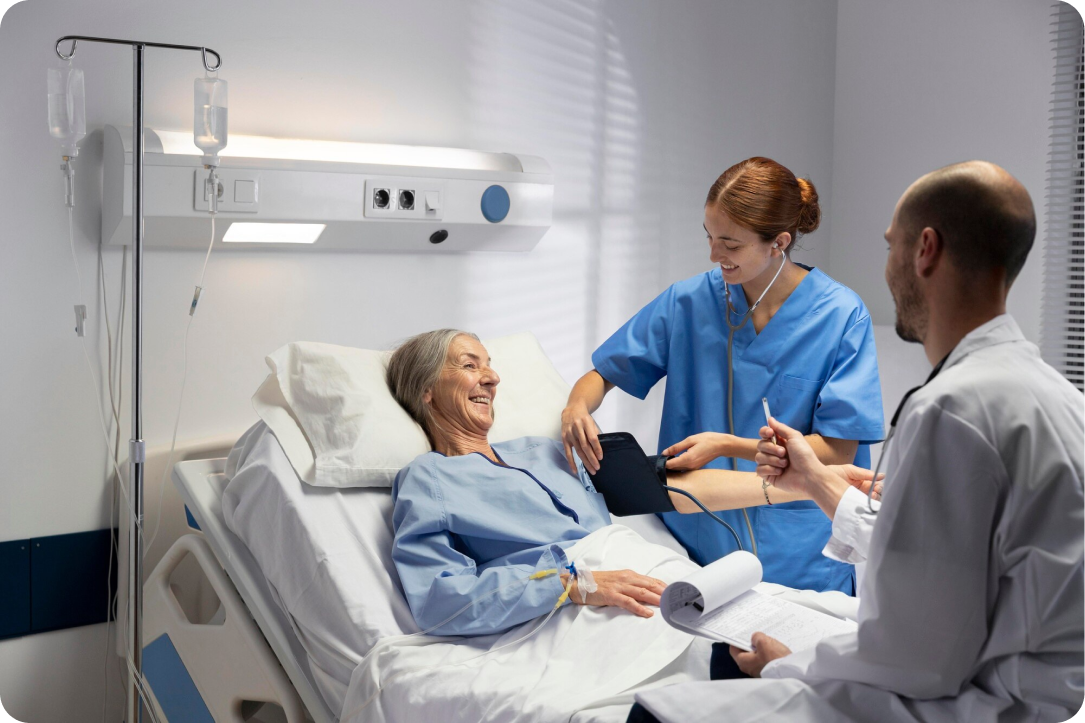
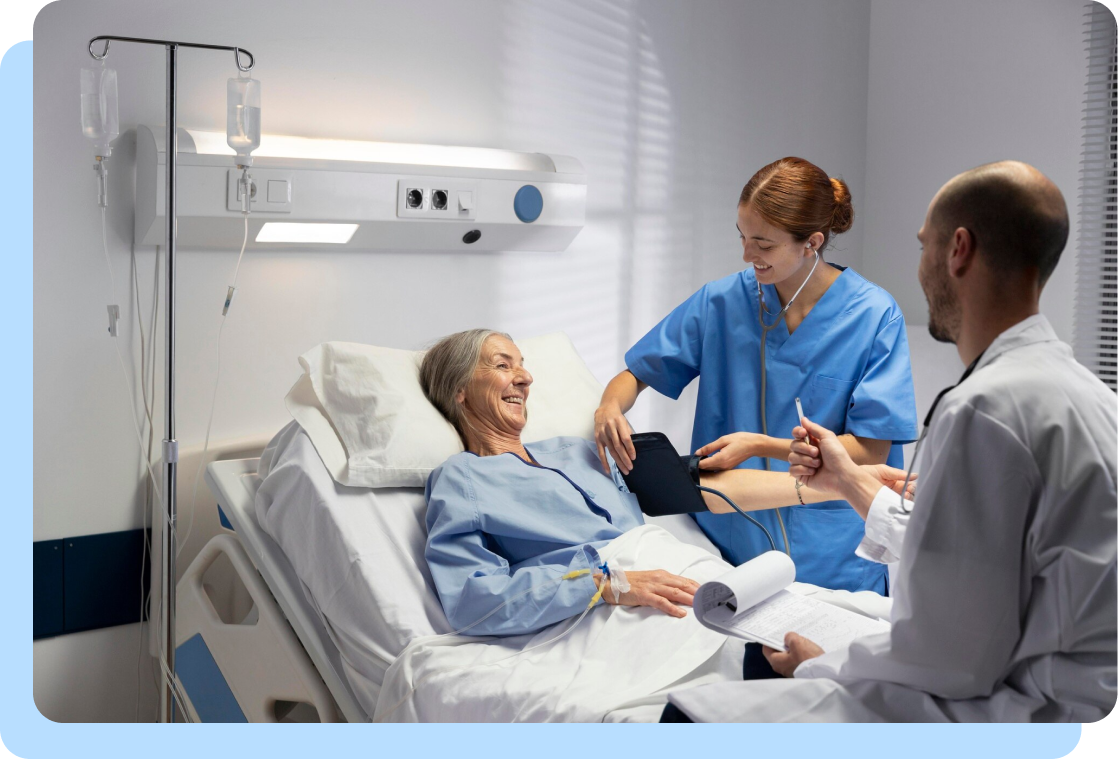
updated header section responsiveness and width chnages on patients section

diff --git a/components/Header/page.js b/components/Header/page.js
@@ -7,7 +7,6 @@ import { menu } from '../../utils/data'
 import { FaArrowCircleRight } from 'react-icons/fa'
 
 export default function Header() {
-  const [showContactButton, setShowContactButton] = useState(true)
   const [isOpen, setIsOpen] = useState(false)
   const [hoveredIndex, setHoveredIndex] = useState(null)
 
@@ -44,8 +43,8 @@ export default function Header() {
 
   return (
     <div className="z-50 absolute w-full mx-auto top-10">
-      <div className="bg-white w-11/12 mx-auto rounded-lg grid grid-cols-3 px-6">
-        <div className="h-20 flex items-center justify-start gap-10 p-2">
+      <div className="bg-white w-11/12 mx-auto rounded-lg px-6 flex justify-between">
+        <div className="h-20 flex items-center justify-start gap-10 p-2 w-1/2 ">
           <div className="relative group flex items-center">
             <div className="">
               <div className="flex min-h-[10vh] items-center justify-center">
@@ -91,7 +90,7 @@ export default function Header() {
           </div>
         </div>
 
-        <div className="relative h-20 flex justify-center items-center">
+        <div className="relative h-20 flex justify-center items-center z-50">
           <Link href="/">
             <div className="bg-white h-28 rounded-lg w-64 flex justify-center p-4 ">
               <Image
@@ -104,51 +103,52 @@ export default function Header() {
           </Link>
         </div>
 
-        <div className="relative flex items-center justify-end gap-0">
-          <div className="group z-20">
-            <form className="mx-auto absolute group-hover:bg-white top-[12px] left-[160px] group-hover:w-[62%] group-hover:lg:w-[62%] group-hover:xl:w-[62%]">
-              {/* Input Container */}
-              <div className="relative flex items-center z-50 transition-all duration-1000 ease-in-out bg-white group-hover:bg-white group-hover:bg-opacity-50">
-                <input
-                  type="search"
-                  id="default-search"
-                  className="block w-0 group-hover:w-full p-4 pe-10 text-sm text-gray-900 border-0 bg-transparent transition-[width,padding] duration-500 ease-in-out group-hover:border-b-blue-500 hover:border-b-2 focus:ring-0 focus:border-b-blue-500"
-                  placeholder={currentPlaceholder}
-                  required
-                />
-                <div className="absolute inset-y-0 end-0 flex items-center pe-3 transition-transform duration-500 group">
-                  <svg
-                    className="w-6 h-6 text-gray-500 dark:text-gray-400"
-                    aria-hidden="true"
-                    xmlns="http://www.w3.org/2000/svg"
-                    fill="none"
-                    viewBox="0 0 20 20"
-                  >
-                    <path
-                      stroke="currentColor"
-                      strokeLinecap="round"
-                      strokeLinejoin="round"
-                      strokeWidth="2"
-                      d="m19 19-4-4m0-7A7 7 0 1 1 1 8a7 7 0 0 1 14 0Z"
-                    />
-                  </svg>
-                </div>
-              </div>
-            </form>
-          </div>
+        <div className="flex items-center justify-end gap-0 w-1/2">
+          <div className="z-20 flex flex-row justify-between">
+            <div className="relative flex items-center justify-center right-[40px]">
+              <form className="mx-auto group-hover:bg-white">
+                <div className="relative flex items-center z-50 bg-white group">
+                  {/* Search Input */}
+                  <input
+                    type="search"
+                    id="default-search"
+                    className="block w-0 group-hover:w-full focus:w-full transition-all duration-300 ease-in-out p-4 pe-10 text-sm text-gray-900 border-0 bg-transparent border-b-white border-b-0 group-hover:border-b-2 focus:border-b-blue-500 focus:ring-0"
+                    placeholder={currentPlaceholder}
+                    required
+                  />
 
-          {/* Contact Us Button with Delay and Fade Effect */}
-          <div
-            className={`transition-opacity duration-900 ease-in-out ${
-              showContactButton ? 'opacity-100' : 'opacity-0'
-            }`}
-          >
-            <Link
-              href="/contact-us"
-              className="sm:py-1 sm:px-1 sm:me-1 sm:mb-1 md:py-2 md:px-4 md:me-2 md:mb-2 py-2 px-4 me-2 mb-2 text-lg font-medium text-[#D84498] rounded-lg border border-[#D84498] hover:bg-[#D84498] hover:text-white opacity-100 z-50 tracking-[2px]"
-            >
-              CONTACT US
-            </Link>
+                  {/* Search Icon */}
+                  <div className="absolute inset-y-0 end-0 flex items-center pe-3">
+                    <svg
+                      className="w-6 h-6 text-gray-500 group-hover:text-blue-500 cursor-pointer"
+                      aria-hidden="true"
+                      xmlns="http://www.w3.org/2000/svg"
+                      fill="none"
+                      viewBox="0 0 20 20"
+                    >
+                      <path
+                        stroke="currentColor"
+                        strokeLinecap="round"
+                        strokeLinejoin="round"
+                        strokeWidth="2"
+                        d="m19 19-4-4m0-7A7 7 0 1 1 1 8a7 7 0 0 1 14 0Z"
+                      />
+                    </svg>
+                  </div>
+                </div>
+              </form>
+            </div>
+
+            <div className="flex items-center">
+              <Link
+                href="/contact-us"
+                className="w-full py-2 px-4 lg:text-lg text-[12px]
+              font-medium text-[#D84498] rounded-lg border border-[#D84498] 
+               hover:bg-[#D84498] hover:text-white opacity-100 z-50 tracking-[2px]"
+              >
+                CONTACT US
+              </Link>
+            </div>
           </div>
         </div>
       </div>

diff --git a/components/HomePage/WhoWeAre/page.js b/components/HomePage/WhoWeAre/page.js
@@ -28,8 +28,10 @@ export default function WhoWeAre() {
             Vision
           </h5>
           <p className="text-black font-roboto font-light group-hover:text-white">
-            To create a global platform that unites healthcare providers and
-            bridges the gap between caregivers and patients.
+            To create a global platform that unites
+            <br />
+            healthcare providers and bridges the gap <br />
+            between caregivers and patients.
           </p>
         </div>
         <div className="h-56 text-left p-4 bg-[#D84498] transition-colors duration-300 ease-in-out group-hover:bg-[#F1F8FF] rounded-r-3xl">

diff --git a/components/HomePage/Patients/page.js b/components/HomePage/Patients/page.js
@@ -48,9 +48,9 @@ export default function Patients() {
             className="z-50"
             alt="Assisting patients in india"
           />
-          <div className="absolute bg-[#B8DEFF] h-[27em] w-[40em] right-9 top-12 rounded-2xl p-10">
+          {/* <div className="absolute bg-[#B8DEFF] h-[53vh] w-[47vw] lg:right-0 md:right-0 top-12 rounded-2xl p-10">
             Assisting patients
-          </div>
+          </div> */}
         </div>
       </div>
     </div>
